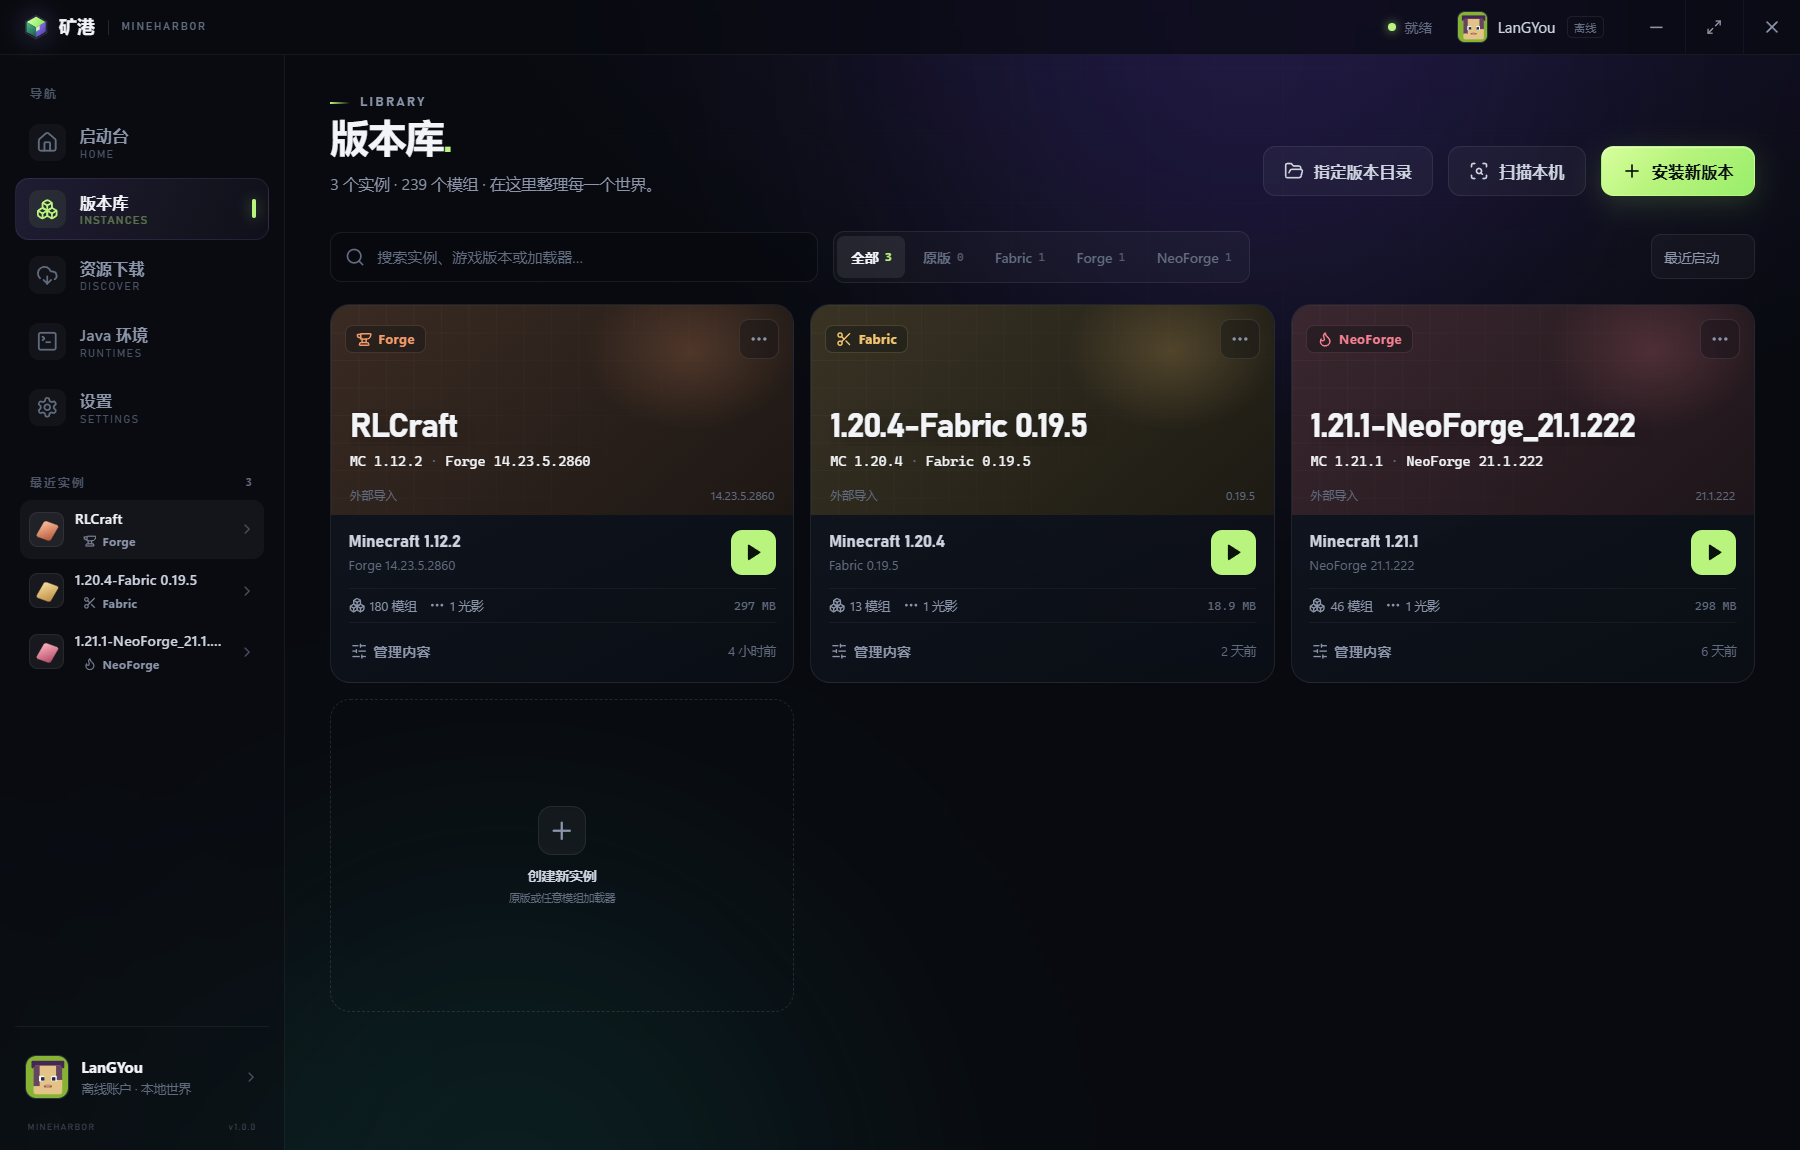
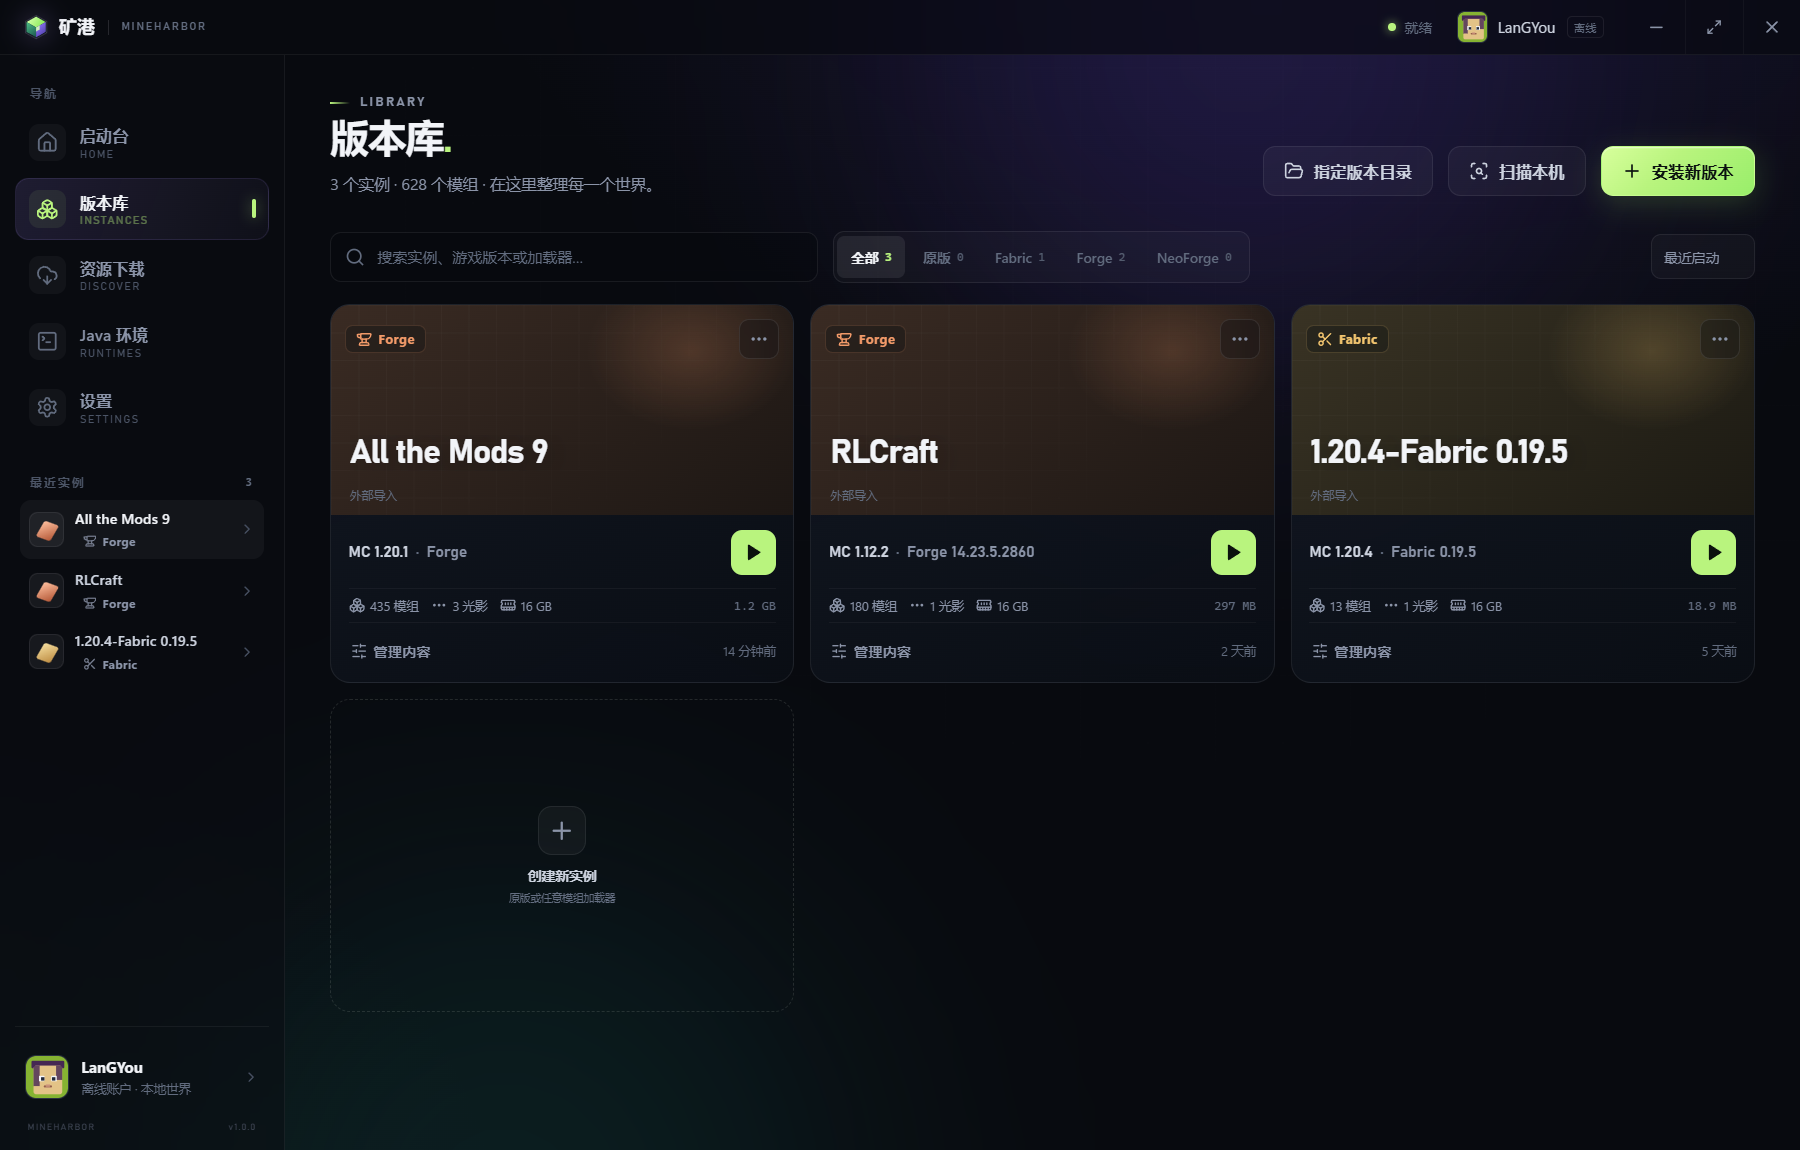
style: remove duplicated version metadata from instance cards

diff --git a/src/renderer/src/pages/VersionsPage.tsx b/src/renderer/src/pages/VersionsPage.tsx
@@ -224,16 +224,10 @@ export function VersionsPage() {
                   </div>
                   <div className="instance-cover-heading">
                     <h3 title={instance.name}>{instance.name}</h3>
-                    <p>
-                      MC {instance.mcVersion}
-                      <span>·</span>
-                      {meta.name}{instance.loaderVersion ? ' ' + instance.loaderVersion : ''}
-                    </p>
                   </div>
                   <div className="instance-cover-cube"><i /><i /><i /><i /></div>
                   <div className="instance-cover-bottom">
                     {running ? <span className="cover-running"><span className="live-dot" /> 游戏运行中</span> : <span>{instance.external ? '外部导入' : '矿港实例'}</span>}
-                    <span>{instance.loaderVersion ?? '原版'}</span>
                   </div>
                 </div>
                 {menuId === instance.id ? (
@@ -255,9 +249,12 @@ export function VersionsPage() {
                 ) : null}
                 <div className="instance-card-body">
                   <div className="instance-title-row">
-                    <div className="instance-version-summary">
-                      <strong>Minecraft {instance.mcVersion}</strong>
-                      <span>{instance.loaderVersion ? meta.name + ' ' + instance.loaderVersion : '原版 Minecraft'}</span>
+                    <div className="instance-runtime-line">
+                      <span className="runtime-mc">MC {instance.mcVersion}</span>
+                      <span className="runtime-dot">·</span>
+                      <span className="runtime-loader" title={`${meta.name}${instance.loaderVersion ? ' ' + instance.loaderVersion : ''}`}>
+                        {meta.name}{instance.loaderVersion ? ' ' + instance.loaderVersion : ''}
+                      </span>
                     </div>
                     <button
                       className={`instance-play ${running ? 'is-running' : ''}`}

diff --git a/src/renderer/src/styles/pages.css b/src/renderer/src/styles/pages.css
@@ -260,28 +260,27 @@
   align-items: center;
   gap: 9px;
 }
-.instance-version-summary {
+.instance-runtime-line {
   flex: 1;
   min-width: 0;
   display: flex;
-  flex-direction: column;
-  gap: 3px;
-}
-.instance-version-summary strong {
-  font-family: var(--font-display);
-  font-size: 13px;
-  font-weight: 650;
+  align-items: center;
+  gap: 6px;
   color: var(--text-soft);
+  font-family: var(--font-display);
+  font-size: 12.5px;
+  font-weight: 600;
+  line-height: 1.4;
   white-space: nowrap;
   overflow: hidden;
-  text-overflow: ellipsis;
 }
-.instance-version-summary span {
-  color: var(--muted-2);
-  font-size: 10px;
-  white-space: nowrap;
+.instance-runtime-line .runtime-mc { color: var(--text-soft); flex-shrink: 0; }
+.instance-runtime-line .runtime-dot { color: var(--muted-2); flex-shrink: 0; }
+.instance-runtime-line .runtime-loader {
+  min-width: 0;
   overflow: hidden;
   text-overflow: ellipsis;
+  color: var(--muted);
 }
 .instance-play {
   width: 30px;

diff --git a/src/main/services/installer.ts b/src/main/services/installer.ts
@@ -255,7 +255,7 @@ export function createDownloadOptions(source: DownloadSource, config: LauncherCo
     // A tuned dispatcher prevents one stalled CDN connection from blocking the
     // whole install for many minutes.
     agent: { dispatcher: downloadAgent },
-    headers: { 'User-Agent': 'MineHarbor/1.0.3 (Minecraft launcher)' },
+    headers: { 'User-Agent': 'MineHarbor/1.0.4 (Minecraft launcher)' },
     side: 'client'
   }
 }

diff --git a/src/main/services/http.ts b/src/main/services/http.ts
@@ -6,7 +6,7 @@ import { Readable, Transform } from 'node:stream'
 import { pipeline } from 'node:stream/promises'
 
 const DEFAULT_USER_AGENT =
-  'MineHarbor/1.0.3 (Minecraft launcher; +https://github.com/LanGYou-desu/mcLauncher)'
+  'MineHarbor/1.0.4 (Minecraft launcher; +https://github.com/LanGYou-desu/mcLauncher)'
 
 export interface FetchOptions {
   timeoutMs?: number

diff --git a/src/main/services/game.ts b/src/main/services/game.ts
@@ -306,7 +306,7 @@ export class GameService extends EventEmitter {
         accessToken,
         userType,
         launcherName: 'MineHarbor',
-        launcherBrand: 'MineHarbor 1.0.3',
+        launcherBrand: 'MineHarbor 1.0.4',
         maxMemory,
         minMemory,
         extraJVMArgs: splitCommandLine(config.jvmArgs),

diff --git a/README.md b/README.md
@@ -46,6 +46,7 @@
   - 删除文件、在资源管理器中定位；
   - 读取 Fabric / Quilt / Forge / NeoForge 模组元数据和图标。
 - 支持打开实例目录、打开游戏根目录、重命名实例、手动输入实例 Java/内存上限、修复版本文件。
+- 版本卡片封面只突出实例名，MC 版本和加载器信息统一放在卡片下方的一行中，避免重复显示。
 - 实时游戏控制台：启动游戏、查看 stdout/stderr、复制日志、结束进程。
 - 兼容 PCL2：识别 `versions/<版本>/PCL/Setup.ini` 版本隔离标记，并将对应版本目录作为独立游戏目录导入，原有 mods、存档和设置可以直接管理。
 - 外部导入的实例保留来源版本目录的名称；只有与现有实例重名时才自动追加序号。
@@ -123,8 +124,8 @@
 
 同时生成 NSIS 安装包与便携版，输出位于 release/ 目录：
 
-- `MineHarbor-Setup-1.0.3.exe`：可交互安装包，可自选安装目录，创建桌面与开始菜单快捷方式；
-- `MineHarbor-1.0.3-portable.exe`：便携版，双击运行。
+- `MineHarbor-Setup-1.0.4.exe`：可交互安装包，可自选安装目录，创建桌面与开始菜单快捷方式；
+- `MineHarbor-1.0.4-portable.exe`：便携版，双击运行。
 
 只生成安装包可以执行 `npm run build:installer`，或双击 **build-installer.bat**。安装包默认按当前用户安装，不需要管理员权限；卸载时保留 `.minecraft` 和 `MineHarborData` 数据目录。
 
